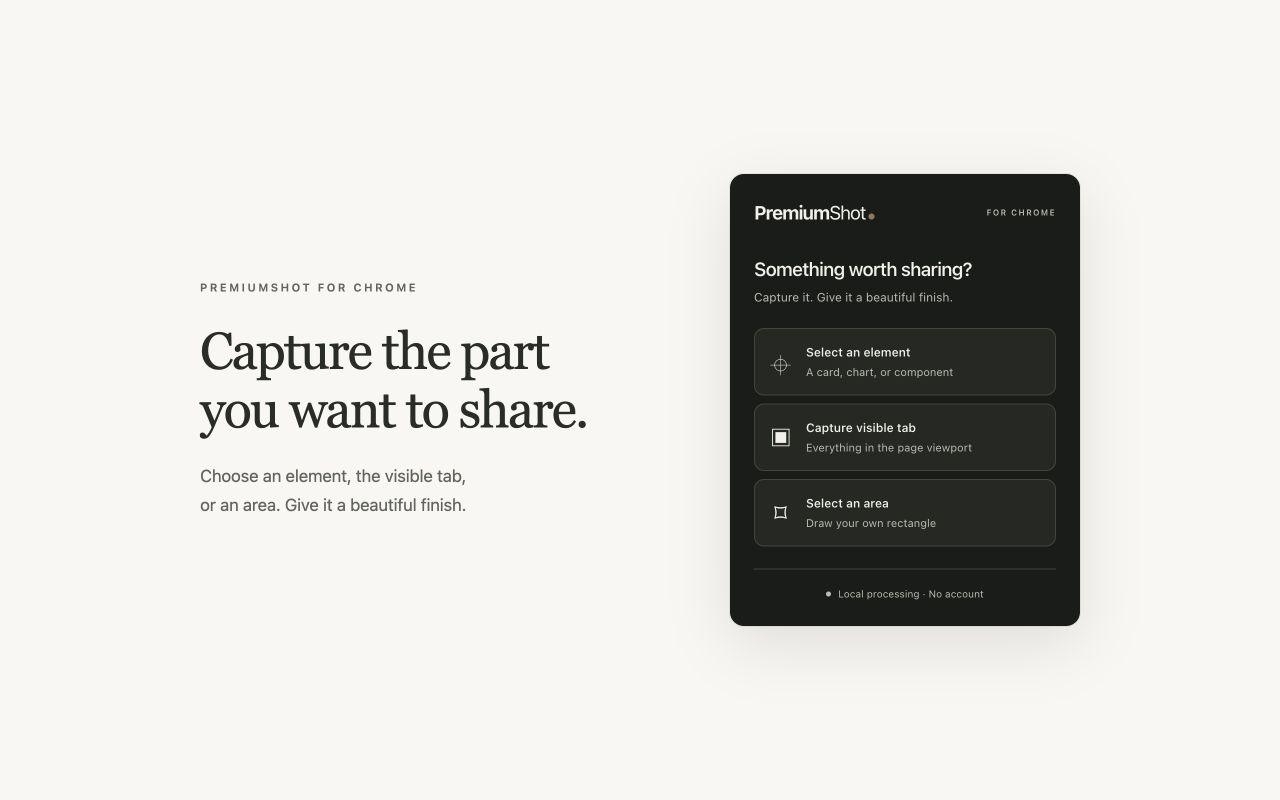
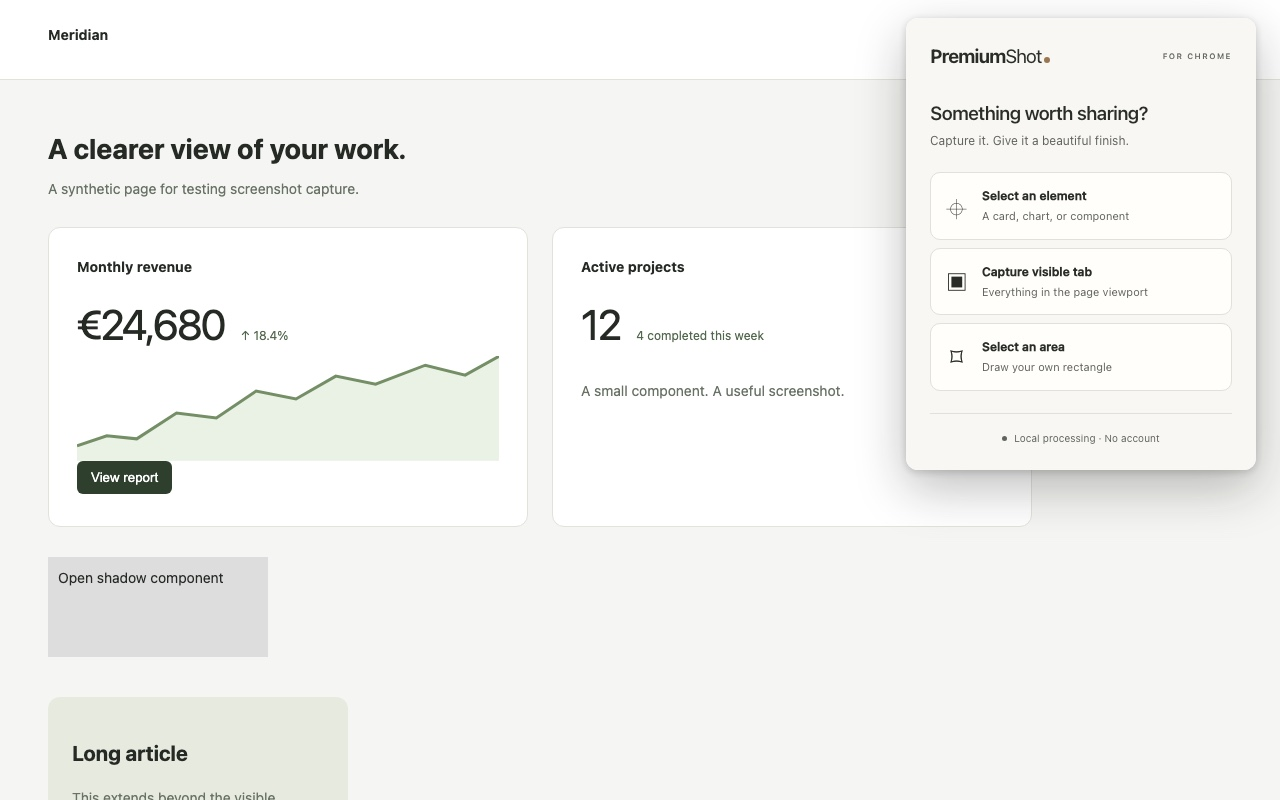
docs: full-bleed Chrome screenshot 1 and align storage cleanup wording
- Rebuild screenshot 1 as a full-bleed 1280x800 image (no padding, square
  corners) to meet Chrome Web Store image rules; document it as a preview of
  the packaged popup over a synthetic page, not a loaded-extension capture.
- Say the extension "tries to remove" old-session capture records on startup
  (and that they remain until a later cleanup succeeds) in privacy-practices,
  the submission checklist and reviewer notes.

Upload ZIP is unchanged (SHA-256 7e1c2f4b...).

diff --git a/chrome-web-store/source/capture-popup.html b/chrome-web-store/source/capture-popup.html
@@ -1,4 +1,11 @@
 <!doctype html>
 <html lang="en"><head><meta charset="utf-8"><title>PremiumShot · Capture popup artwork</title>
-<style>*{box-sizing:border-box}body{margin:0;background:#f8f7f4;color:#292c27;font-family:-apple-system,BlinkMacSystemFont,"Segoe UI",sans-serif}main{width:1280px;height:800px;display:flex;align-items:center;justify-content:center;gap:100px}.copy{width:430px}.edition{font-size:11px;letter-spacing:2.5px;font-weight:600;color:#61645d;margin:0 0 28px}h1{font-family:Georgia,"Times New Roman",serif;font-size:52px;line-height:1.13;letter-spacing:-1.8px;font-weight:400;margin:0 0 22px}.detail{font-size:17px;line-height:1.7;color:#61645d;margin:0;max-width:360px}.popup-frame{width:350px;height:452px;border-radius:14px;overflow:hidden;box-shadow:0 18px 60px #292c2720;outline:1px solid #292c2715}iframe{display:block;width:350px;height:452px;border:0}</style>
-</head><body><main><div class="copy"><p class="edition">PREMIUMSHOT FOR CHROME</p><h1>Capture the part<br>you want to share.</h1><p class="detail">Choose an element, the visible tab,<br>or an area. Give it a beautiful finish.</p></div><div class="popup-frame"><iframe src="../../chrome-extension/popup.html" title="The shipped PremiumShot capture popup"></iframe></div></main></body></html>
+<style>
+html,body{margin:0;width:1280px;height:800px;overflow:hidden;background:#f5f6f3}
+iframe{border:0;display:block;position:absolute}
+#page{left:0;top:0;width:1280px;height:800px}
+#popup{left:906px;top:18px;width:350px;height:452px;border-radius:12px;box-shadow:0 18px 50px rgba(20,22,18,.28),0 2px 8px rgba(20,22,18,.18)}
+</style></head><body>
+<iframe id="page" src="fixture.html" title="Synthetic Meridian webpage"></iframe>
+<iframe id="popup" src="../../chrome-extension/popup.html" title="The shipped PremiumShot capture popup"></iframe>
+</body></html>

diff --git a/chrome-web-store/README.md b/chrome-web-store/README.md
@@ -20,7 +20,7 @@ The manifest controls the name, version and 113-character summary. The detailed 
 | Upload | File | Dimensions | Purpose |
 | --- | --- | --- | --- |
 | Store icon | `assets/icon-128.png` | 128 × 128 | Existing brand artwork at 96 × 96 with 16 px transparent padding. |
-| Screenshot 1 | `assets/01-capture-popup.jpg` | 1280 × 800 | Packaged capture popup at its true 350 × 452 size on a neutral canvas. |
+| Screenshot 1 | `assets/01-capture-popup.jpg` | 1280 × 800 | Packaged capture popup at its true 350 × 452 size over the synthetic Meridian webpage, full bleed with no padding. |
 | Screenshot 2 | `assets/02-element-picker.jpg` | 1280 × 800 | Packaged picker frontend selecting a card on the synthetic Meridian webpage. |
 | Screenshot 3 | `assets/03-editor-dawn.jpg` | 1280 × 800 | Light editor, five looks, finish controls and PNG exports. |
 | Screenshot 4 | `assets/04-editor-tide-dark.jpg` | 1280 × 800 | Dark editor with Tide and 16:9 composition. |
@@ -30,7 +30,7 @@ The manifest controls the name, version and 113-character summary. The detailed 
 
 ![Small promotional tile](assets/promo-small.jpg)
 
-The screenshots capture the shipped frontends served locally. [Popup artwork](source/capture-popup.html) embeds the exact popup HTML without scaling. [Picker artwork](source/capture-picker.html) loads the unchanged `picker.js` over the real DOM of our synthetic fixture; [its adapter](source/capture-picker.js) supplies Chrome messaging and a scripted hover only. It does not call captureVisibleTab or grant permissions. No picker controls are redrawn or invented. The preview adapter and fixture are excluded from the extension upload. This is source-faithful UI artwork, **not loaded-extension capture evidence**; replace the picker image with a real extension screenshot during B6 if available.
+The screenshots capture the shipped frontends served locally. [Popup artwork](source/capture-popup.html) embeds the exact popup HTML without scaling, positioned over the synthetic fixture page at the top right. It is a source-faithful preview, not a loaded-extension capture, and shows no browser toolbar. [Picker artwork](source/capture-picker.html) loads the unchanged `picker.js` over the real DOM of our synthetic fixture; [its adapter](source/capture-picker.js) supplies Chrome messaging and a scripted hover only. It does not call captureVisibleTab or grant permissions. No picker controls are redrawn or invented. The preview adapter and fixture are excluded from the extension upload. This is source-faithful UI artwork, **not loaded-extension capture evidence**; replace the picker image with a real extension screenshot during B6 if available.
 
 The Dawn and Tide editor images retain the prior clean 0.1.4 captures: editor markup, styles, composition and the packaged dashboard are unchanged. Fresh 0.2.0 frontend captures and five downloads were checked separately; Inspect was refreshed from 0.2.0. No customer content, invented browser chrome or credentials are included. Chrome's native screenshot output is JPEG; the files retain that format. Promotional artwork is rendered from [its HTML source](source/promo.html) and a real exported PNG. It is promotional composition, separate from the actual UI screenshots. Source provenance and file hashes are in `validation.json` and `checks.json`.
 

diff --git a/chrome-web-store/privacy-practices.md b/chrome-web-store/privacy-practices.md
@@ -18,7 +18,7 @@ PremiumShot injects its packaged picker into the top frame of the active webpage
 
 **storage**
 
-PremiumShot saves the user's last style and appearance in chrome.storage.local. chrome.storage.session contains only selection tokens and a small browser-session identifier. User-initiated captures pass to the editor as PNG blobs in the extension's local IndexedDB database. The editor consumes and deletes a record in one transaction. Pending transfers become invalid after ten minutes; stale records are cleaned on worker startup and the next capture, and closing the source tab removes its pending transfers. A new browser/extension session invalidates old records and removes them on the next extension startup. IndexedDB can remain on disk if Chrome stops before cleanup; it is not session memory. Pixels are never put in chrome.storage.local or chrome.storage.sync, synced or transmitted.
+PremiumShot saves the user's last style and appearance in chrome.storage.local. chrome.storage.session contains only selection tokens and a small browser-session identifier. User-initiated captures pass to the editor as PNG blobs in the extension's local IndexedDB database. The editor consumes and deletes a record in one transaction. Pending transfers become invalid after ten minutes; stale records are cleaned on worker startup and the next capture, and closing the source tab removes its pending transfers. A new browser/extension session invalidates old records, and the extension tries to remove them on its next startup. If that cleanup does not complete, they stay on disk until a later cleanup succeeds or the extension is removed. IndexedDB can remain on disk if Chrome stops before cleanup; it is not session memory. Pixels are never put in chrome.storage.local or chrome.storage.sync, synced or transmitted.
 
 **clipboardWrite**
 

diff --git a/chrome-web-store/submission-checklist.md b/chrome-web-store/submission-checklist.md
@@ -25,7 +25,7 @@
 - [x] Saved System/Light/Dark across popup and reopened editors; real OS appearance change while System is selected.
 - [ ] Reload/close discards the current source; last style remains; no unexpected error in the extension's service worker/editor console.
 - [x] Real capture at the largest available maximised window, including a 5K viewport at 2× where available. Inspect the extension's IndexedDB after import, picker cancellation, expired transfer cleanup and source-tab close: no corresponding pending records. Synthetic 10,240 × 5,760 PNG coverage already passes; it is not a physical-display capture test.
-- [ ] Browser restart/extension reload invalidates pending captures and removes old-session database records on the next worker startup.
+- [ ] Browser restart/extension reload invalidates pending captures, and the extension tries to remove old-session database records on the next worker startup.
 
 **20 October native acceptance:** the exact 0.2.0 upload ZIP was loaded in a fresh signed-out profile and exercised through user-authorized native CUA. The four checked rows above have [itemized evidence](../docs/acceptance-0.2.0.md). Reload and actual close/reopen discard the source and retain style; final console observations are still pending. Real ten-minute expiry, picker cancellation, source-tab closure and extension reload pass, with empty stores and a changed session id. The available built-in display produced a real 3024 × 1724 maximized viewport; no physical 5K display was available. Fabien authorized global Chrome restart, but native control then returned a ScreenCaptureKit failure/frozen frame and an off-screen menu-bar error. Restart and final console checks remain open until native control recovers.
 
